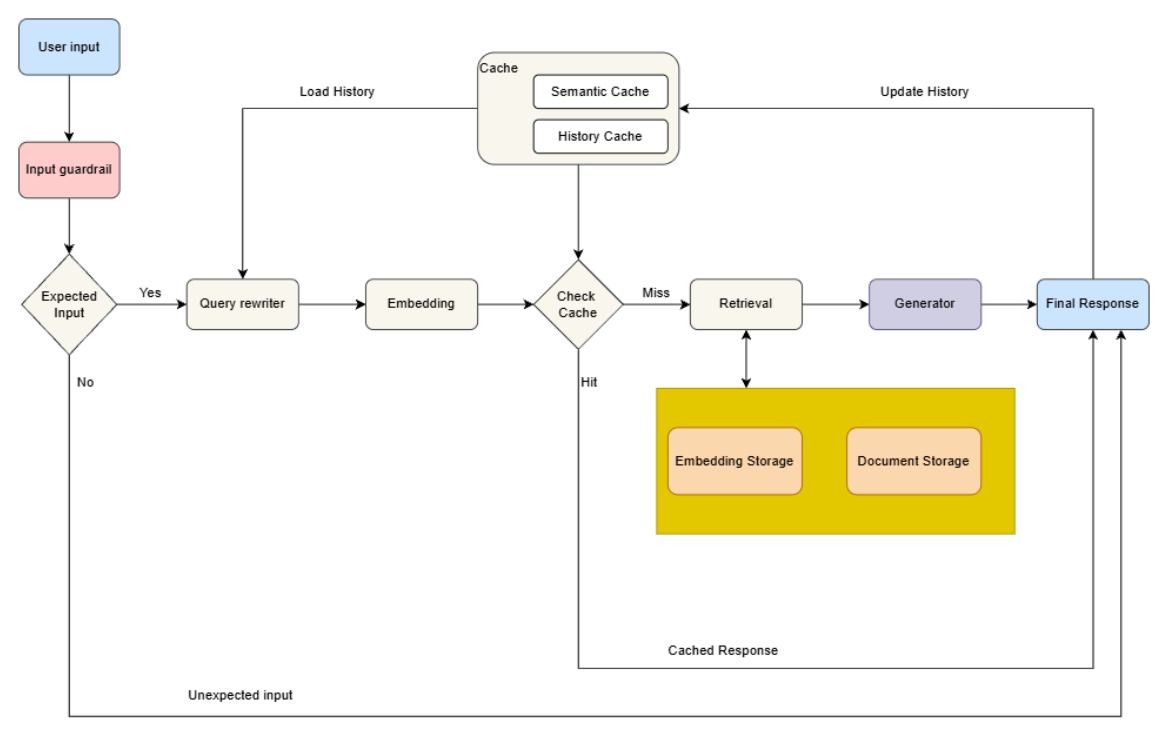
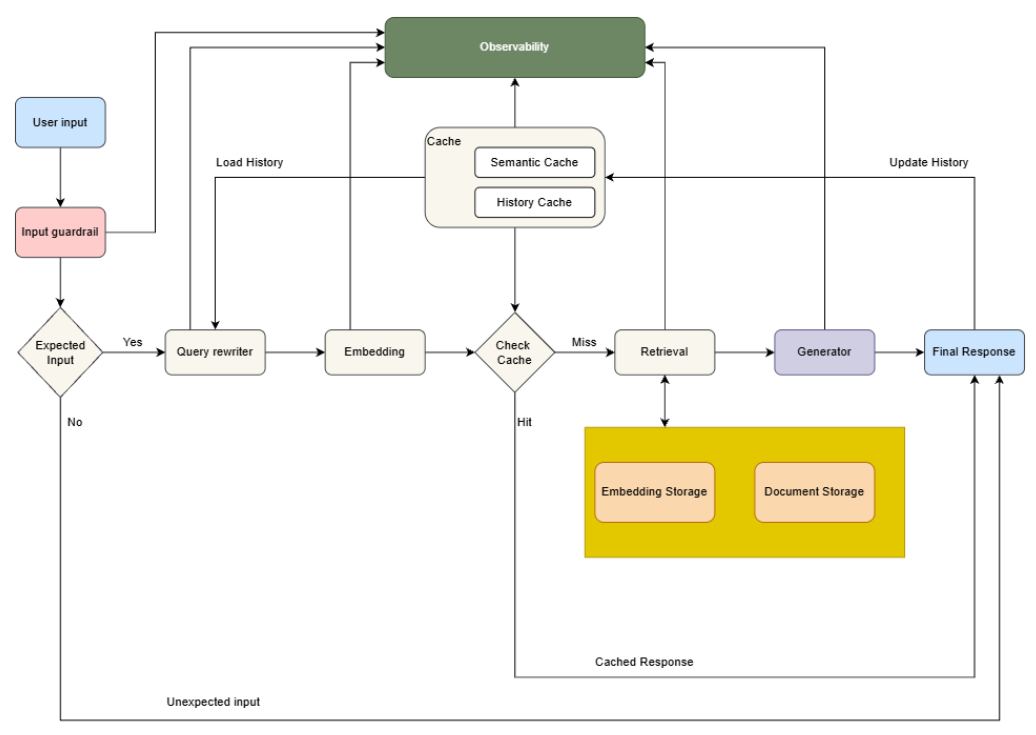
update observability and README.md

diff --git a/src/cache/semantic_cache.py b/src/cache/semantic_cache.py
@@ -1,0 +1,92 @@
+import hashlib
+import json
+import redis
+import numpy as np
+from typing import Optional, Tuple
+from llama_index.core.schema import TextNode
+from langfuse import observe
+import logging
+logger = logging.getLogger(__name__)
+
+class RedisSemanticCache:
+    """
+    Semantic Cache cho RAG y tế:
+    - Cache response dựa trên cosine similarity của query.
+    - Dùng Redis làm backend.
+    - Embedding bằng bge-m3.
+    """
+    def __init__(
+        self,
+        redis_url: Optional[str] = None,
+        embed_model=None,  # Truyền từ ngoài (từ HybridRetriever)
+        similarity_threshold: float = 0.95,
+        cache_ttl_days: int = 90,
+    ):
+        if embed_model is None:
+            raise ValueError("embed_model (HuggingFaceEmbedding) phải được truyền vào khi khởi tạo RedisSemanticCache")
+        
+        self.redis_client = redis.Redis.from_url(redis_url, decode_responses=True)
+        self.embed_model = embed_model
+        self.threshold = similarity_threshold
+        self.ttl_seconds = 3600 * 24 * cache_ttl_days
+
+        logger.info(f"[RedisSemanticCache] Khởi tạo: threshold={self.threshold}, TTL={cache_ttl_days} ngày")
+
+    def _get_embedding(self, text: str) -> np.ndarray:
+        node = TextNode(text=text)
+        embedding = self.embed_model.get_text_embedding(node.get_content())
+        return np.array(embedding, dtype=np.float32)
+
+    def _cosine_similarity(self, vec1: np.ndarray, vec2: np.ndarray) -> float:
+        if vec1.size == 0 or vec2.size == 0:
+            return 0.0
+        return np.dot(vec1, vec2) / (np.linalg.norm(vec1) * np.linalg.norm(vec2))
+
+    def _get_cache_key(self, question: str) -> str:
+        return f"rag:semantic:{hashlib.md5(question.encode()).hexdigest()}"
+
+    @observe(name="semantic_cache_get")
+    def get(self, question: str) -> Optional[Tuple[str, str]]:
+        """
+        Lấy từ cache nếu có query tương tự (cosine >= threshold).
+        Trả về (response, original_question) nếu hit, None nếu miss.
+        """
+        question_embedding = self._get_embedding(question)
+
+        # Lấy tất cả key cache
+        keys = self.redis_client.keys("rag:semantic:*")
+        best_score = 0.0
+        best_response = None
+        best_original_q = None
+
+        for key in keys:
+            cached_data = self.redis_client.get(key)
+            if cached_data:
+                data = json.loads(cached_data)
+                cached_embedding = np.array(data["embedding"], dtype=np.float32)
+                similarity = self._cosine_similarity(question_embedding, cached_embedding)
+
+                if similarity >= self.threshold and similarity > best_score:
+                    best_score = similarity
+                    best_response = data["response"]
+                    best_original_q = data["question"]
+
+        if best_response:
+            logger.debug(f"[RedisSemanticCache HIT] Similarity={best_score:.4f} với query gốc: {best_original_q}")
+            return best_response, best_original_q
+
+        logger.debug(f"[RedisSemanticCache MISS] Similarity={best_score:.4f} với query gốc: {best_original_q}")
+        return None
+
+    @observe(name="semantic_cache_set")
+    def set(self, question: str, response: str):
+        """Lưu query + response + embedding vào cache."""
+        embedding = self._get_embedding(question).tolist()
+        data = {
+            "question": question,
+            "response": response,
+            "embedding": embedding
+        }
+        cache_key = self._get_cache_key(question)
+        self.redis_client.setex(cache_key, self.ttl_seconds, json.dumps(data))
+        logger.info(f"[RedisSemanticCache] Đã lưu cache cho query: {question[:50]}...")

diff --git a/main.py b/main.py
@@ -1,11 +1,23 @@
+# app.py (file Chainlit chính)
 import chainlit as cl
 import logging
+from langfuse import Langfuse  
+from dotenv import load_dotenv
+import os
+
+load_dotenv()
+
+# Khởi tạo Langfuse ONE TIME duy nhất
+langfuse = Langfuse(
+    public_key=os.getenv("LANGFUSE_PUBLIC_KEY"),
+    secret_key=os.getenv("LANGFUSE_SECRET_KEY"),
+    host=os.getenv("LANGFUSE_HOST", "https://cloud.langfuse.com"),
+)
+logger = logging.getLogger(__name__)
 
 # Import config logging và gọi ngay đầu file
 from src.config.logging_config import setup_logging
-setup_logging()  # Config logging toàn cục 1 lần duy nhất
-
-logger = logging.getLogger(__name__)
+setup_logging()
 
 from langchain_community.chat_message_histories import RedisChatMessageHistory, ChatMessageHistory
 from langchain_core.messages import HumanMessage, AIMessage, BaseMessage
@@ -15,9 +27,7 @@ from typing import List
 # Import pipeline RAG
 from src.pipeline.rag_pipeline import rag_service
 
-# Import settings để lấy redis_url và backend
 from src.config.settings import settings
-
 
 @cl.on_chat_start
 async def on_chat_start():
@@ -28,7 +38,6 @@ async def on_chat_start():
                 "Hỏi mình bất cứ điều gì về sức khỏe nhé! 🚀\n\n"
                 "Lưu ý: Đây chỉ là thông tin tham khảo. Hãy tham khảo ý kiến bác sĩ để được tư vấn chính xác."
     ).send()
-
 
 @cl.on_message
 async def on_message(message: cl.Message):
@@ -46,13 +55,12 @@ async def on_message(message: cl.Message):
         history = RedisChatMessageHistory(
             session_id=session_id,
             url=settings.chainlit.redis_url,
-            ttl=3600 * 24 * 7  # 7 ngày
+            ttl=3600 * 24 * 7
         )
         logger.debug(f"Sử dụng Redis history với URL: {settings.chainlit.redis_url}")
     else:
-        # Default: memory (hoặc file nếu sau này mở rộng)
         history = ChatMessageHistory()
-        logger.debug("Sử dụng in-memory history (không lưu persistent)")
+        logger.debug("Sử dụng in-memory history")
 
     # Hiển thị lịch sử cũ
     history_text = "**Lịch sử chat đến trước tin nhắn này:**\n\n"
@@ -76,7 +84,6 @@ async def on_message(message: cl.Message):
     history.add_message(user_msg)
 
     try:
-        # Loading message
         loading_msg = cl.Message(content="Đang tìm kiếm và suy nghĩ...")
         await loading_msg.send()
 
@@ -87,14 +94,12 @@ async def on_message(message: cl.Message):
             chat_history=history.messages,
         )
 
-        # Cập nhật loading thành response thật
         loading_msg.content = response
         loading_msg.author = "Bot"
         await loading_msg.update()
 
         logger.info(f"Trả lời thành công, độ dài response: {len(response)} ký tự")
 
-        # Lưu response của bot vào history
         bot_now = datetime.now().strftime("%Y-%m-%d %H:%M:%S")
         bot_msg = AIMessage(
             content=response,

diff --git a/src/guards/base_guard.py b/src/guards/base_guard.py
@@ -6,7 +6,8 @@ import fasttext
 import unicodedata
 import ahocorasick
 from pathlib import Path
-from src.guards.prompts import prompts  
+from src.guards.prompts import prompts
+from langfuse import observe
 import logging
 logger = logging.getLogger(__name__)
 # load_dotenv()
@@ -91,6 +92,7 @@ class BaseGuard:
             logger.error(f"Lỗi gọi Groq: {e}")
             return "ERROR"
 
+    @observe(name="input_guard")
     async def check_input(self, user_input: str) -> tuple[bool, str]:
         # Bước 1 & 2: kiểm tra nhanh
         lang_length_ok, error_msg = self._validate_lang_and_length(user_input)

diff --git a/src/generator/llm_generator.py b/src/generator/llm_generator.py
@@ -3,6 +3,7 @@ from typing import Optional
 from groq import AsyncGroq
 from dotenv import load_dotenv
 from src.generator.prompt import PromptTemplate
+from langfuse import observe
 import logging
 logger = logging.getLogger(__name__)
 load_dotenv()
@@ -27,6 +28,7 @@ class LLMGenerator:
         self.max_completion_tokens = max_completion_tokens
         logger.info(f"[LLMGenerator] Khởi tạo Groq với model: {self.model}, Temperature: {self.temperature}, Max Tokens: {self.max_completion_tokens}")
 
+    @observe(name="llm_generate")
     async def generate_response(
         self,
         question: str,

diff --git a/src/pipeline/rag_pipeline.py b/src/pipeline/rag_pipeline.py
@@ -2,6 +2,7 @@ import os
 from typing import Optional, List, Dict, Any
 from datetime import datetime
 from dotenv import load_dotenv
+from langfuse import observe
 from langchain_core.messages import HumanMessage, AIMessage
 from src.embedding.embedding import EmbeddingProvider
 from src.guards.input_guard import InputGuard
@@ -62,6 +63,7 @@ class Rag:
 
         logger.info("[Rag] Khởi tạo xong.")
 
+    @observe(name="get_response")
     async def get_response(
         self,
         question: str,

diff --git a/src/rewriter/query_rewriter.py b/src/rewriter/query_rewriter.py
@@ -3,6 +3,7 @@ from typing import List
 from groq import AsyncGroq
 from langchain_core.messages import BaseMessage, AIMessage, HumanMessage
 from dotenv import load_dotenv
+from langfuse import observe
 import logging
 import os
 
@@ -73,6 +74,7 @@ Người dùng: Loại trái cây nào tốt cho bệnh này?
 Bắt đầu viết lại câu hỏi hiện tại dựa trên lịch sử trên:
 """.strip()
 
+    @observe(name="query_rewrite")
     async def rewrite(
         self,
         question: str,

diff --git a/src/retrievers/hybrid.py b/src/retrievers/hybrid.py
@@ -8,6 +8,7 @@ from src.retrievers.bm25 import BM25RetrieverBuilder
 
 from llama_index.core import Settings
 from llama_index.llms.groq import Groq
+from langfuse import observe
 
 import logging
 logger = logging.getLogger(__name__)
@@ -73,6 +74,7 @@ class HybridRetriever:
             verbose=True,
         )
 
+    @observe(name="hybrid_retrieve")
     async def retrieve(
         self,
         query: str,

diff --git a/README.md b/README.md
@@ -5,7 +5,7 @@
 Hệ thống kết hợp:
 - **Hybrid Retrieval** (Dense + BM25)
 - **Semantic Cache** (Redis)
-- **Input Guardrail** (an toàn, chống từ cấm, độc hại)
+- **Input Guardrail** (an toàn, chống từ cấm, độc hại, injection)
 - **Query Rewriting** (history-aware)
 - **LLM Generation** (Groq + Qwen 32B)
 
@@ -45,3 +45,51 @@ Hệ thống kết hợp:
 - GPU (nếu dùng `device="cuda"`) hoặc CPU
 
 ### Bước cài đặt
+
+1. Clone repo:
+    ```bash
+    git clone https://github.com/DuongNguyenTung2204/rag-project.git
+    cd rag-project
+2. Tạo virtual environment & cài dependencies: 
+    ```bash
+    python -m venv venv
+    # Windows
+    .\venv\Scripts\activate
+    # Linux/Mac
+    # source venv/bin/activate
+    pip install -r requirements.txt
+3. Tạo file .env từ .env.example và điền các giá trị:
+    ```bash
+    cp .env.example .env
+    # Chỉnh sửa .env: GROQ_API_KEY, LANGFUSE keys, LANGFUSE url
+4. Chạy Redis + MongoDB:
+    ```bash
+    docker-compose up -d
+5. Download datasets
+    ```bash
+    python -m src.storage.load_datasets
+6. Build vector database (tạo embedding + lưu vào ChromaDB):
+    ```bash
+    python -m src.storage.build_vector_db
+7. Build BM25 index + lưu nodes vào MongoDB DocumentStore:
+    ```bash
+    python -m src.storage.build_mongo_docstore
+8. Tải model FastText Language Identification (`lid.176.bin`):
+   Model này dùng để detect ngôn ngữ (đặc biệt hữu ích cho hybrid RAG multilingual, lọc tiếng Việt, v.v.).  
+   Chạy lệnh sau trong thư mục gốc project (rag-project):
+
+   ```bash
+   # Tạo thư mục nếu chưa có
+   mkdir -p src/models
+
+   # Tải model chính thức từ fastText (khoảng 128MB)
+   wget https://dl.fbaipublicfiles.com/fasttext/supervised-models/lid.176.bin -O src/models/lid.176.bin
+9. Chạy Chainlit:
+    Khởi động ứng dụng bằng lệnh sau:
+
+    ```bash
+    chainlit run main.py -w
+    ```
+    Sau khi server khởi động thành công, mở trình duyệt và truy cập:
+
+    http://localhost:8000
